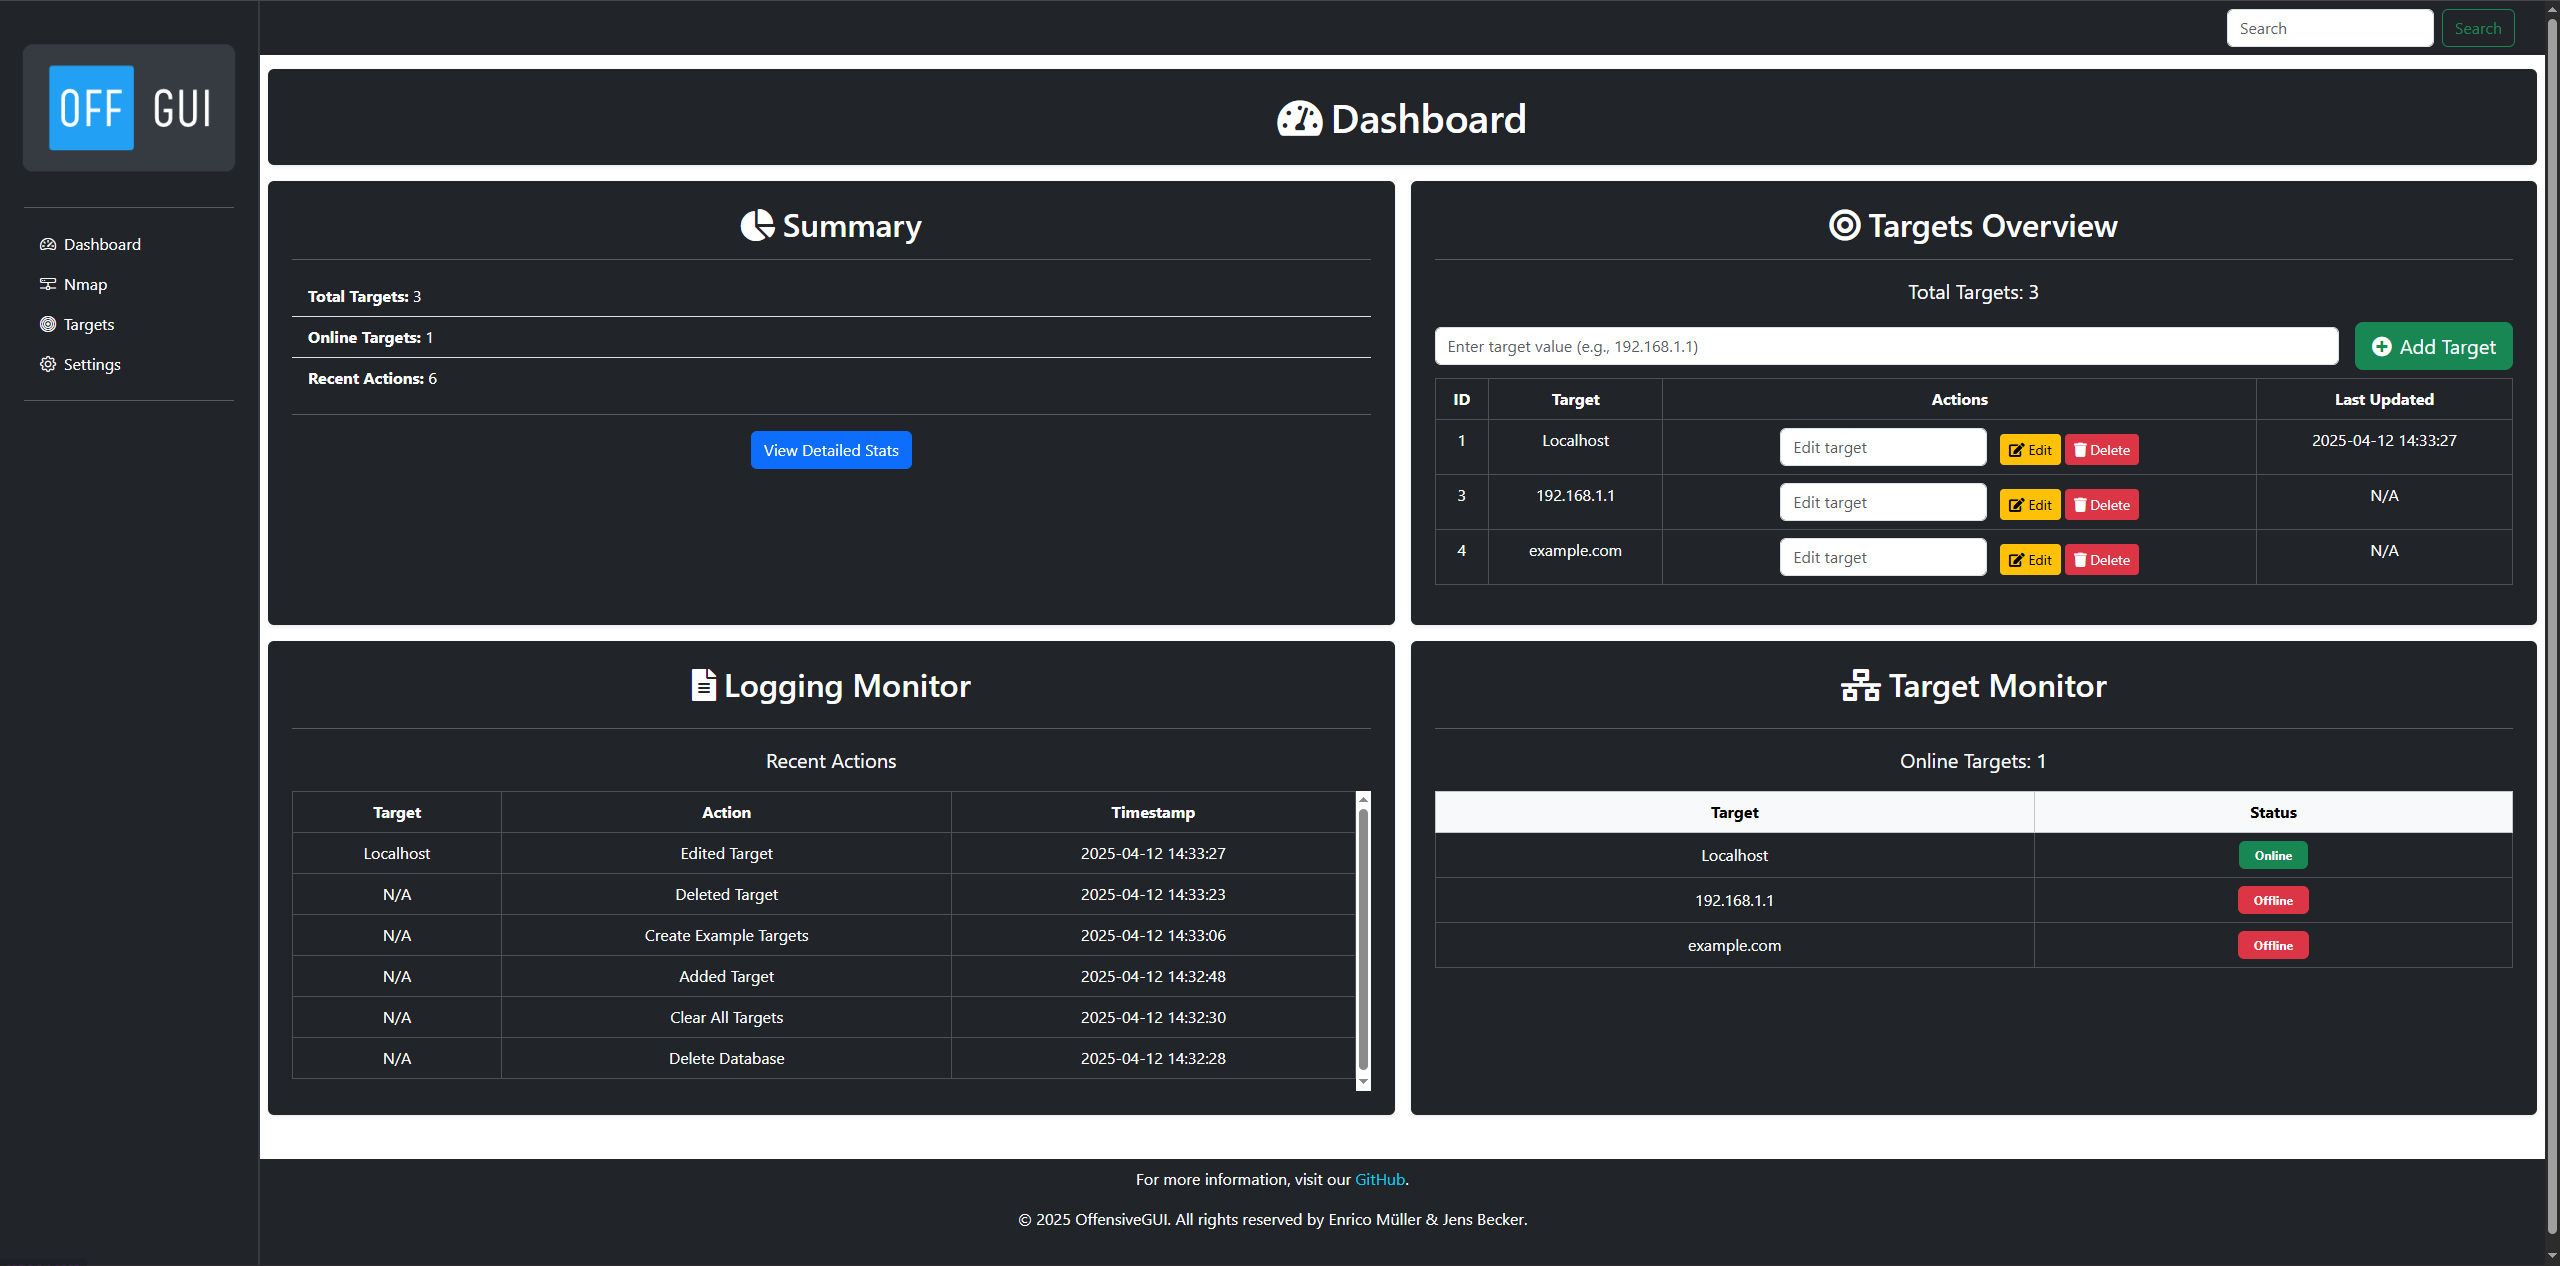
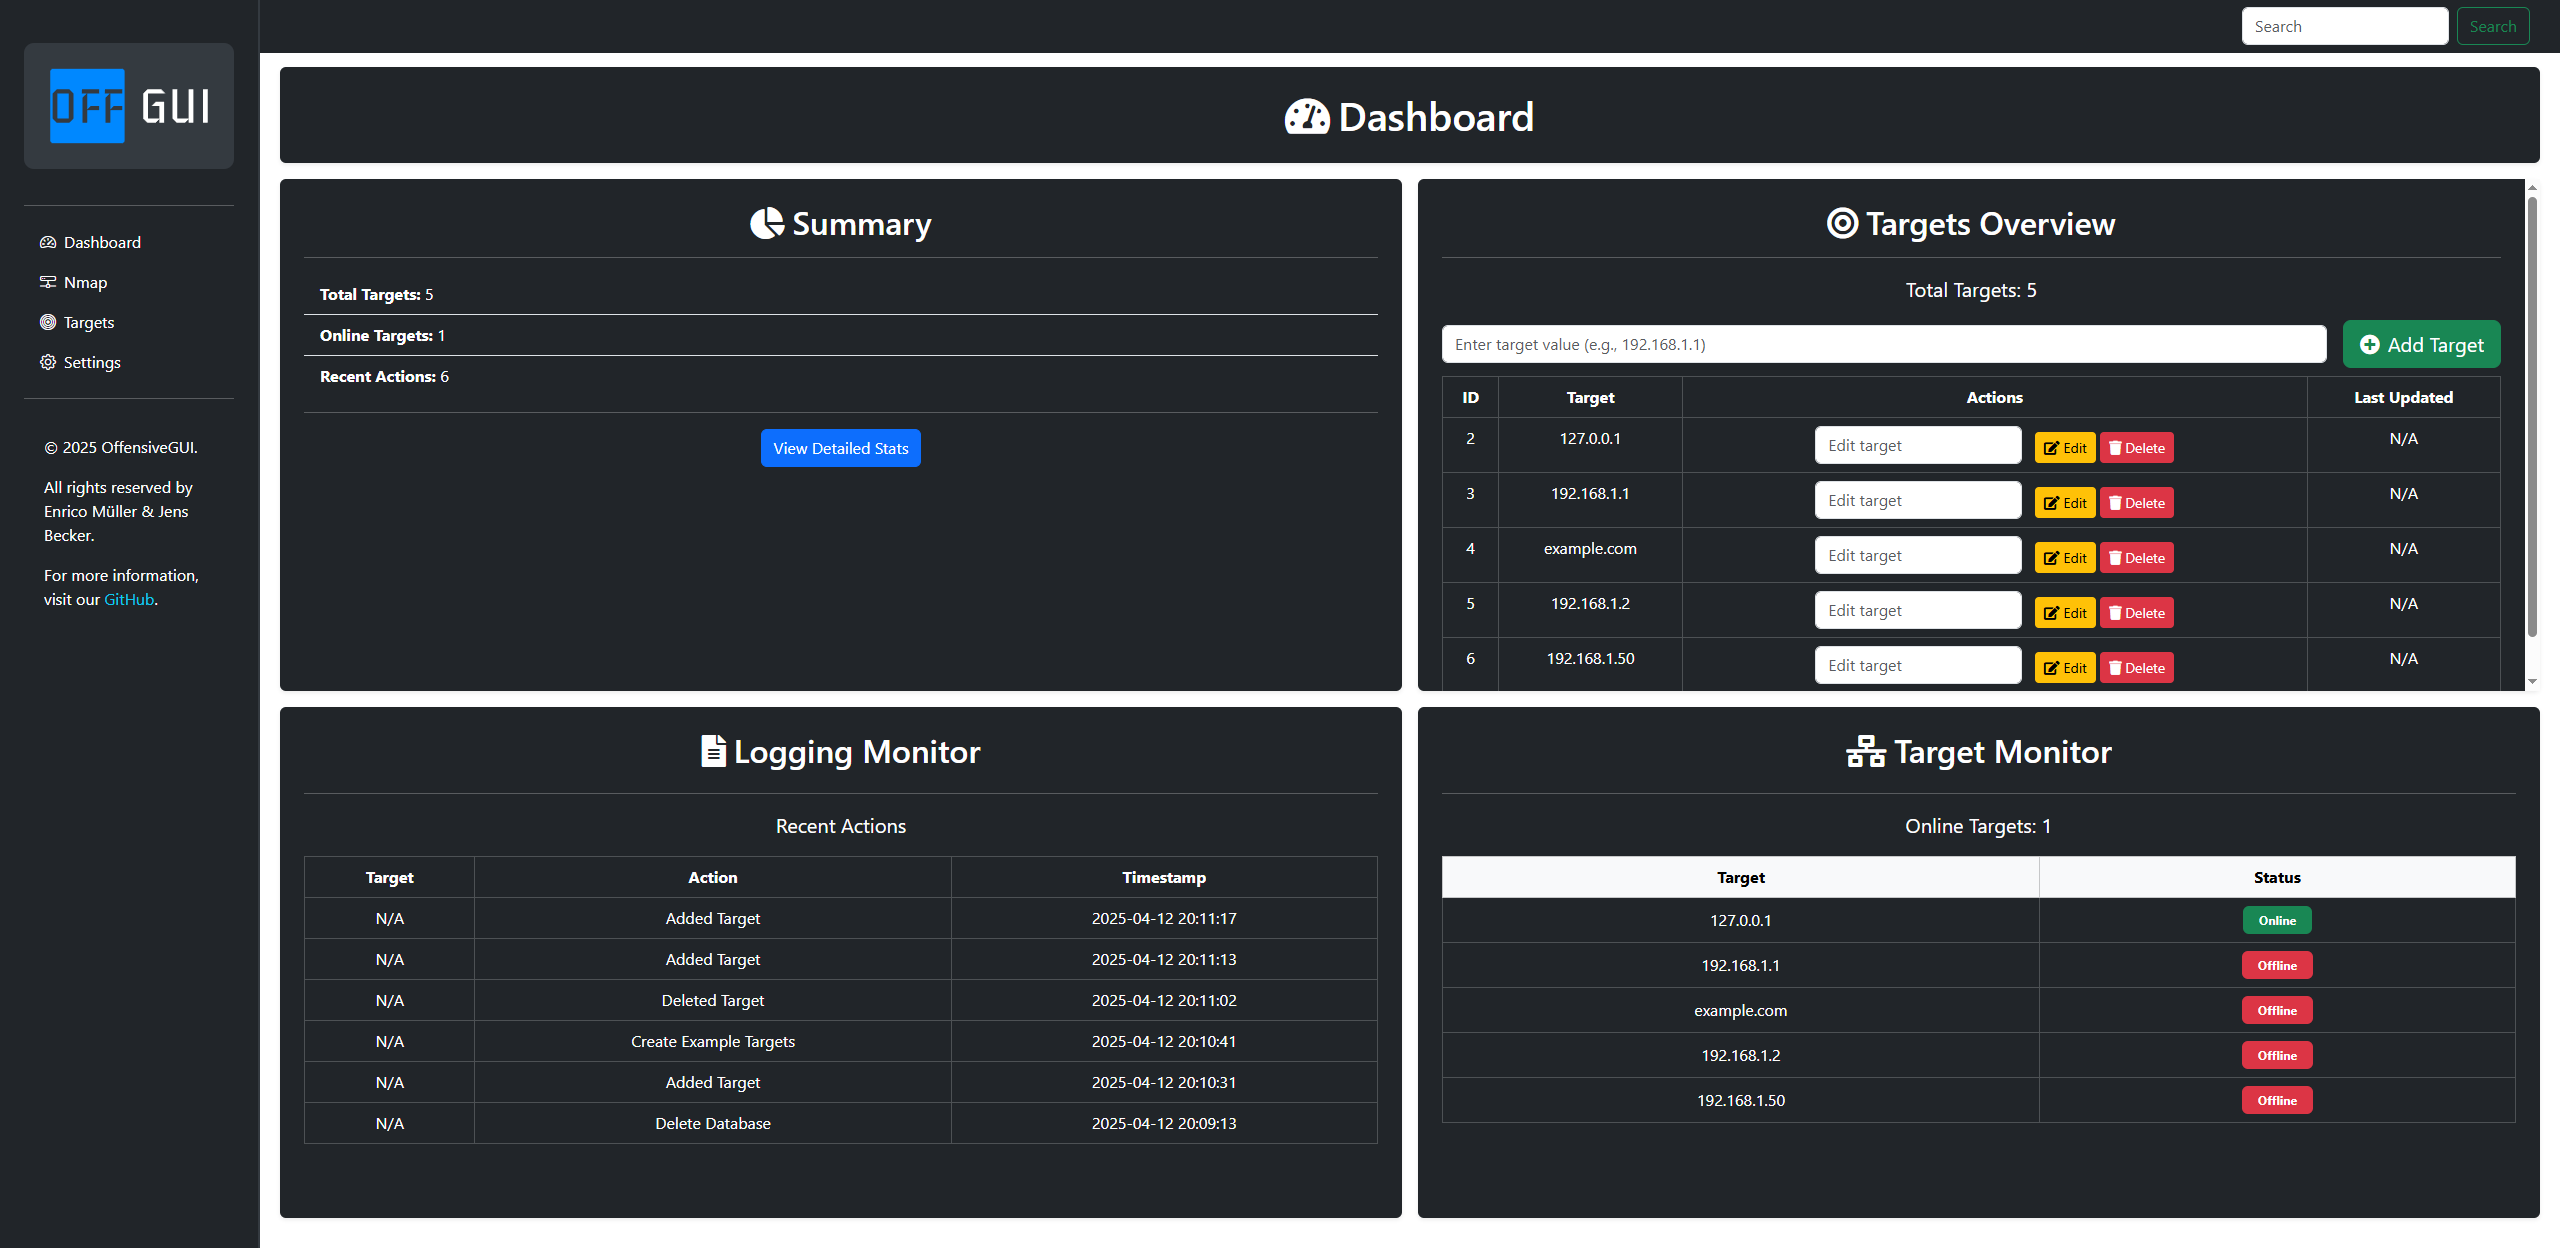
Update templates and assets: enhance footer, adjust layout, and improve responsiveness

diff --git a/templates/settings.html b/templates/settings.html
@@ -7,10 +7,10 @@ Settings - OffensiveGUI
 
 {% block content %}
 <div class="container-fluid mt-5">
-    <div class="row g-3 mt-4">
+    <div class="row g-3">
         <!-- Main Settings Sections -->
         <div class="col-lg-9">
-            <div class="card shadow-sm border-0 mb-4">
+            <div class="card shadow-sm border-0">
                 <div class="card-body bg-dark text-white rounded">
                     <h1 class="text-center">
                         <i class="fas fa-cogs me-2"></i>Settings
@@ -18,7 +18,7 @@ Settings - OffensiveGUI
                     <p class="text-center mt-3">Manage your application settings and database.</p>
                 </div>
             </div>
-            <div class="row g-3 mt-4 mb-4">
+            <div class="row g-3 mt-2">
                 <!-- Delete Database Section -->
                 <div class="col-lg-6">
                     <div class="card shadow-sm border-0">
@@ -26,7 +26,7 @@ Settings - OffensiveGUI
                             <h2 class="text-center">
                                 <i class="fas fa-trash-alt me-2 text-danger"></i>Delete Database
                             </h2>
-                            <p class="text-center mt-3">
+                            <p class="text-center mt-4 mb-4">
                                 This action will permanently delete all data in the database. Proceed with caution.
                             </p>
                             <form action="{{ url_for('delete_database') }}" method="POST" class="text-center">
@@ -45,7 +45,7 @@ Settings - OffensiveGUI
                             <h2 class="text-center">
                                 <i class="fas fa-database me-2 text-warning"></i>Recreate Database
                             </h2>
-                            <p class="text-center mt-3">
+                            <p class="text-center mt-4 mb-4">
                                 This action will recreate the database structure. Existing data will be lost.
                             </p>
                             <form action="{{ url_for('recreate_database') }}" method="POST" class="text-center">
@@ -58,7 +58,7 @@ Settings - OffensiveGUI
                 </div>
             </div>
 
-            <div class="row g-3 mt-4">
+            <div class="row g-3 mt-2">
                 <!-- Create Example Targets Section -->
                 <div class="col-lg-6">
                     <div class="card shadow-sm border-0">
@@ -66,7 +66,7 @@ Settings - OffensiveGUI
                             <h2 class="text-center">
                                 <i class="fas fa-plus-circle me-2 text-success"></i>Create Example Targets
                             </h2>
-                            <p class="text-center mt-3">
+                            <p class="text-center mt-4 mb-4">
                                 This action will create 3 example targets for testing purposes.
                             </p>
                             <form action="{{ url_for('create_example_targets') }}" method="POST" class="text-center">
@@ -85,7 +85,7 @@ Settings - OffensiveGUI
                             <h2 class="text-center">
                                 <i class="fas fa-trash me-2 text-danger"></i>Clear All Targets
                             </h2>
-                            <p class="text-center mt-3">
+                            <p class="text-center mt-4 mb-4">
                                 This action will delete all targets from the database. Proceed with caution.
                             </p>
                             <form action="{{ url_for('clear_all_targets') }}" method="POST" class="text-center">
@@ -101,7 +101,7 @@ Settings - OffensiveGUI
 
         <!-- Activity Monitor Section -->
         <div class="col-lg-3">
-            <div class="card shadow-sm border-0" style="height: 80vh; overflow: auto;">
+            <div class="card shadow-sm border-0" style="height: 90vh; overflow: auto;">
                 <div class="card-body bg-dark text-white rounded d-flex flex-column">
                     <h2 class="text-center">
                         <i class="fas fa-history me-2 text-primary"></i>Activity Monitor

diff --git a/templates/index.html b/templates/index.html
@@ -5,10 +5,10 @@
 
 {% block content %}
 
-<div class="container-fluid py-4">
+<div class="container-fluid">
     <div class="row g-3">
         <!-- Dashboard Header -->
-        <div class="col-12">
+        <div class="col-12 pt-4">
             <div class="bg-dark text-white rounded p-4 text-center shadow-sm">
                 <h1 class="mb-0">
                     <i class="fas fa-tachometer-alt me-2"></i>Dashboard
@@ -18,7 +18,7 @@
 
         <!-- Section 1: Summary Section -->
         <div class="col-lg-6">
-            <div class="bg-dark text-white rounded p-4 shadow-sm h-100" style="overflow: auto; max-height: 35vh;">
+            <div class="bg-dark text-white rounded p-4 shadow-sm h-100" style="overflow: auto; min-height: 40vh; max-height: 40vh;">
                 <h2 class="text-center">
                     <i class="fas fa-chart-pie me-2"></i>Summary
                 </h2>
@@ -45,7 +45,7 @@
 
         <!-- Section 2: Targets Overview -->
         <div class="col-lg-6">
-            <div class="bg-dark text-white rounded p-4 shadow-sm h-100" style="overflow: auto; max-height: 35vh;">
+            <div class="bg-dark text-white rounded p-4 shadow-sm h-100" style="overflow: auto; min-height: 40vh; max-height: 40vh;">
                 <h2 class="text-center">
                     <i class="fas fa-bullseye me-2"></i>Targets Overview
                 </h2>
@@ -103,13 +103,13 @@
 
         <!-- Section 3: Logging Monitor -->
         <div class="col-lg-6">
-            <div class="bg-dark text-white rounded p-4 shadow-sm d-flex flex-column h-100" style="overflow: auto; max-height: 40vh">
+            <div class="bg-dark text-white rounded p-4 shadow-sm d-flex flex-column h-100" style="overflow: auto; min-height: 40vh; max-height: 40vh;">
                 <h2 class="text-center">
                     <i class="fas fa-file-alt me-2"></i>Logging Monitor
                 </h2>
                 <hr class="bg-light">
                 <p class="text-center fs-5">Recent Actions</p>
-                <div class="overflow-auto flex-grow-1" style="max-height: 300px;">
+                <div class="overflow-auto flex-grow-1">
                     {% if action_logs %}
                     <table class="table table-dark table-hover table-bordered text-center">
                         <thead>
@@ -138,7 +138,7 @@
 
         <!-- Section 4: Target Monitor -->
         <div class="col-lg-6">
-            <div class="bg-dark text-white rounded p-4 shadow-sm d-flex flex-column h-100" style="overflow: auto; max-height: 40vh;">
+            <div class="bg-dark text-white rounded p-4 shadow-sm d-flex flex-column h-100" style="overflow: auto; min-height: 40vh; max-height: 40vh;">
                 <h2 class="text-center">
                     <i class="fas fa-network-wired me-2"></i>Target Monitor
                 </h2>

diff --git a/templates/base.html b/templates/base.html
@@ -98,11 +98,16 @@
                         </li>
                     </ul>
                     <hr class="bg-light">
+                    <div class="container-fluid" style="bottom: 0; left: 0; right: 0; padding: 20px;">
+                        <p>&copy; 2025 OffensiveGUI. </p>
+                        <p>All rights reserved by Enrico Müller & Jens Becker. </p>
+                        <p>For more information, visit our <a href="https://github.com/jensbecker-dev" class="text-decoration-none text-info">GitHub</a>.</p>
+                    </div>
                 </div>
             </nav>
             <!-- Main Content Area -->
-            <main class="col-lg-10" style="margin-left: 260px; padding: 20px 0; min-height: calc(100vh - 135px); min-width: calc(100% - 260px);">
-            <div class="container-fade mt-4">
+            <main class="col-lg-10" style="margin-left: 260px; padding: 20px 0; min-height: auto; min-width: calc(100% - 260px);">
+            <div class="container-fluid mt-4">
                 {% block content %}
                 <!-- Content will be injected here from child templates -->
                 {% endblock %}
@@ -110,14 +115,6 @@
             </main>
             </div>
         </div>
-
-        <!-- Footer -->
-        <footer class="text-center bg-dark text-white py-2" style="bottom: 0; width: 100%; height: 120px;">
-            <div class="container-fluid">
-                <p>For more information, visit our <a href="https://github.com/jensbecker-dev" class="text-decoration-none text-info">GitHub</a>.</p>
-                <p>&copy; 2025 OffensiveGUI. All rights reserved by Enrico Müller & Jens Becker.</p>
-            </div>
-        </footer>
 
         <!-- Bootstrap JS -->
         <script src="https://cdn.jsdelivr.net/npm/bootstrap@5.3.2/dist/js/bootstrap.bundle.min.js" integrity="sha384-C6RzsynM9kWDrMNeT87bh95OGNyZPhcTNXj1NW7RuBCsyN/o0jlpcV8Qyq46cDfL" crossorigin="anonymous"></script>

diff --git a/templates/nmap.html b/templates/nmap.html
@@ -19,11 +19,11 @@ Nmap Scanner - OffensiveGUI
         </div>
     </div>
 
-    <div class="row g-3 mt-4">
+    <div class="row g-3 mt-1">
         <!-- Main Nmap Sections -->
         <div class="col-lg-9" style="overflow: auto; max-height: 80vh;">
             <!-- Nmap Scan Form -->
-            <div class="container-fluid mb-5 bg-dark text-white rounded p-4 shadow-lg" style="overflow: hidden;">
+            <div class="container-fluid mb-4 bg-dark text-white rounded p-4 shadow-lg" style="overflow: hidden;">
                 <form method="post" action="{{ url_for('nmap_scan_route') }}" class="row bg-dark p-3 rounded d-flex align-items-center justify-content-between">
                     <div class="col-md-4">
                         <label for="target" class="form-label text-white">Target</label>
@@ -107,7 +107,7 @@ Nmap Scanner - OffensiveGUI
                                 <td class="text-center">{{ result.port }}</td>
                                 <td class="text-center">{{ result.protocol }}</td>
                                 <td class="text-center">{{ result.state }}</td>
-                                <td class="text-center">{{ result.service }}</td>
+                                <td class="text-center">{{ result.service|default("N/A") }}</td>
                                 {% endif %}
                             </tr>
                             {% endfor %}
@@ -123,7 +123,7 @@ Nmap Scanner - OffensiveGUI
         </div>
 
         <!-- Target Monitor Section -->
-        <div class="col-lg-3" style="overflow: auto; height: 70vh;">
+        <div class="col-lg-3" style="overflow: auto; height: 80vh;">
             <div class="card shadow-sm border-0 h-100">
                 <div class="card-body bg-dark text-white rounded d-flex flex-column">
                     <h2 class="text-center">

diff --git a/templates/targets.html b/templates/targets.html
@@ -34,7 +34,7 @@ Targets Management - OffensiveGUI
     </div>
 
     <!-- Targets Table -->
-    <div class="card shadow-sm border-0 mt-4" style="overflow: auto; max-height: 70vh;">
+    <div class="card shadow-sm border-0 mt-4" style="overflow: auto; max-height: 80vh;">
         <div class="card-body bg-dark text-white rounded">
             <h2 class="text-center mb-4">
                 <i class="fas fa-bullseye me-2"></i>Targets Overview
